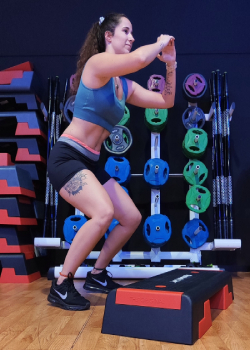
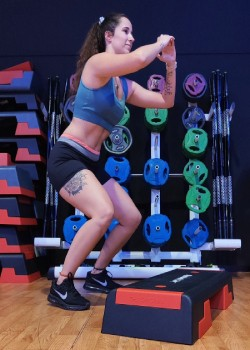
optimizacion imagenes

diff --git a/planes.html b/planes.html
@@ -15,7 +15,7 @@
     <link href="https://fonts.googleapis.com/css2?family=Montserrat:ital,wght@0,100..900;1,100..900&display=swap" rel="stylesheet">
     <link rel="preconnect" href="https://fonts.googleapis.com">
     <link rel="preconnect" href="https://fonts.gstatic.com" crossorigin>
-    <link href="https://fonts.googleapis.com/css2?family=Bebas+Neue&family=Protest+Guerrilla&display=swap" rel="stylesheet">
+    <link href="https://fonts.googleapis.com/css2?family=Bebas+Neue&family=Protest+Guerrilla&display=swap" rel="stylesheet" >
     <link rel="icon" href="assets/favicon.ico" type="image/x-icon">
     <link rel="stylesheet" href="css/planes.css">
     <script src="js/planes.js" defer async></script>

diff --git a/index.html b/index.html
@@ -137,7 +137,7 @@
                 <a href="nosotros.html" class="a-nosotros" target="_blank">Conóceme</a>
             </div>
             <div class="div-caras">
-                <img src="assets/cara .jpg" alt="img cara" class="img-ella">
+                <img src="assets/cara(1).jpg" alt="img cara" class="img-ella">
                 <img src="assets/piernas(1).jpg" alt="img piernas" class="img-el">
             </div>
         </article>

diff --git a/css/index.css b/css/index.css
@@ -151,7 +151,7 @@ a{
     
     position: relative;
 
-    background-image: url('../assets/indice.jpg') ; /*Imagen de fondo*/
+    background-image: url('../assets/indice (1).jpg') ; /*Imagen de fondo*/
     background-size: cover; /*Que ocupe todo el contenedor*/
     background-repeat: no-repeat; /*No se repite la imagen más de una vez*/
     background-position: center; /*La imagen se centre*/
